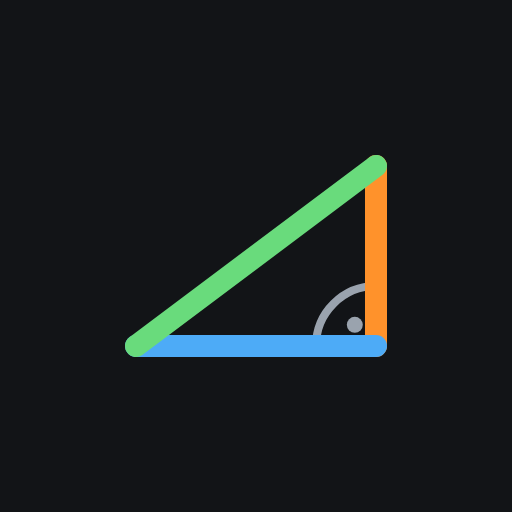
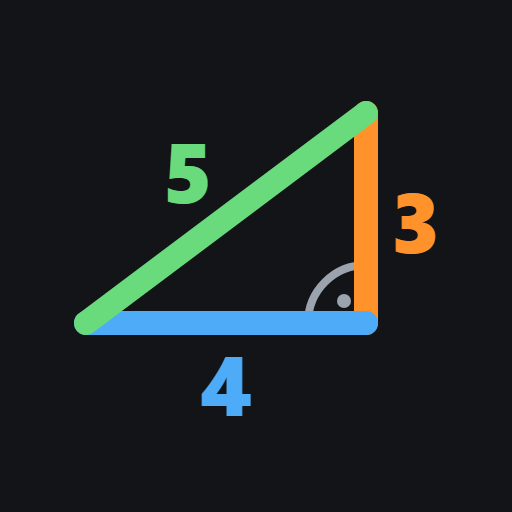
Nowa, większa ikona z oznaczeniem boków 3, 4, 5
Trójkąt wypełnia strefę bezpieczną ikony maskable, a ikona dla iOS
jest dodatkowo powiększona, bo iPhone przycina tylko zaokrąglone rogi.

Claude-Session: https://claude.ai/code/session_01L6XMmqjEGXUeu7wtMqbWLm

Changed region(s): [[0.125, 0.1875, 0.875, 0.8125]]

diff --git a/sw.js b/sw.js
@@ -1,5 +1,5 @@
 // Podbij wersję przy każdej zmianie plików, żeby telefony pobrały nowe.
-const CACHE = 'trojkat-v3';
+const CACHE = 'trojkat-v4';
 const ASSETS = [
   './',
   './index.html',
